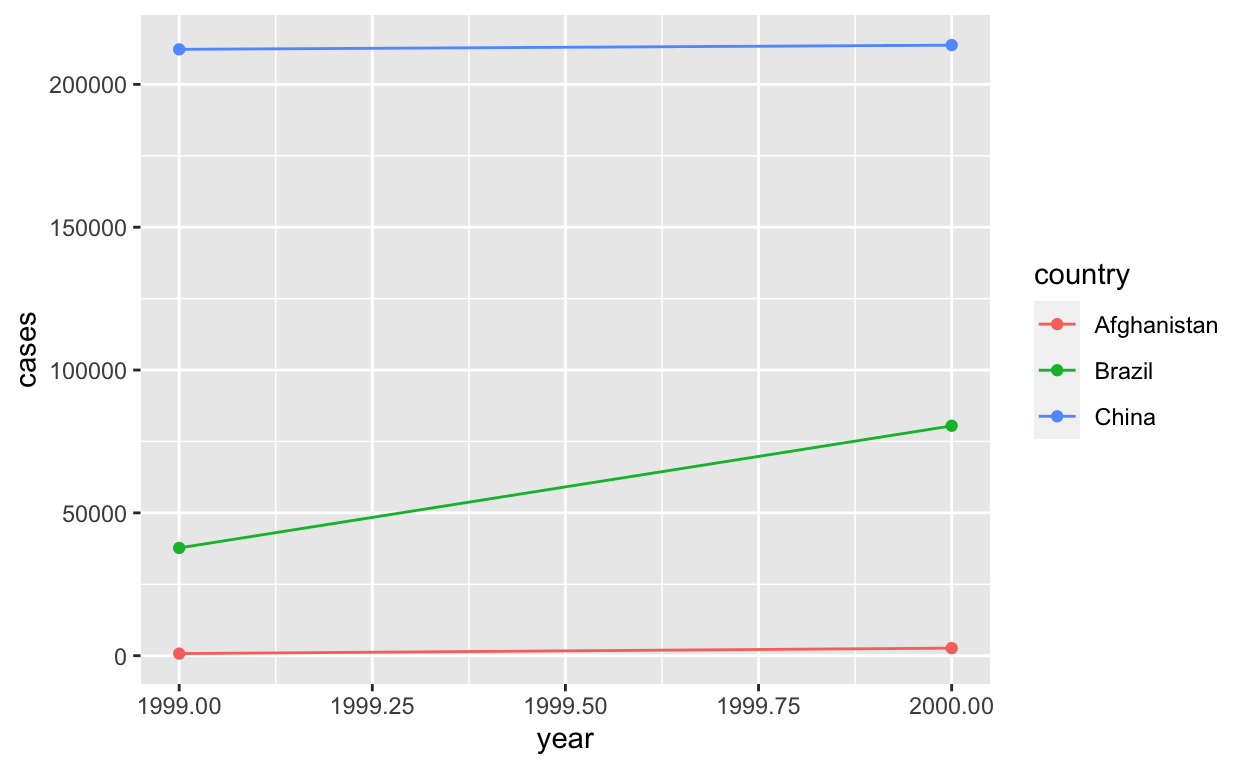
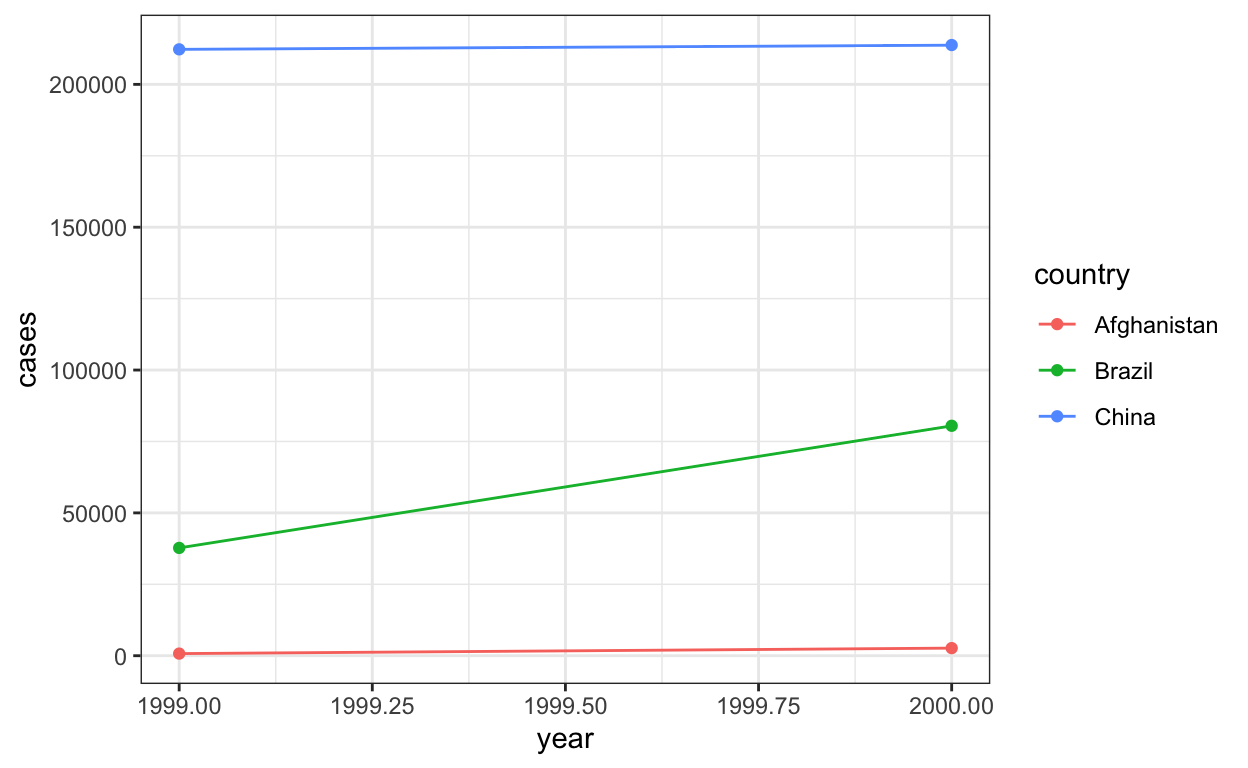
updated link to some readings

diff --git a/docs/posts/2021-01-27-week4-2/index.html b/docs/posts/2021-01-27-week4-2/index.html
@@ -2253,6 +2253,7 @@ d-article ul > li { /*to add back in space between bullet items that I took away
 <pre><code><span class='kw'><a href='https://rdrr.io/r/base/library.html'>library</a></span><span class='op'>(</span><span class='st'><a href='https://dplyr.tidyverse.org'>"dplyr"</a></span><span class='op'>)</span>
 <span class='kw'><a href='https://rdrr.io/r/base/library.html'>library</a></span><span class='op'>(</span><span class='st'><a href='https://tidyr.tidyverse.org'>"tidyr"</a></span><span class='op'>)</span>
 <span class='kw'><a href='https://rdrr.io/r/base/library.html'>library</a></span><span class='op'>(</span><span class='st'><a href='https://ggplot2.tidyverse.org'>"ggplot2"</a></span><span class='op'>)</span>
+<span class='fu'><a href='https://ggplot2.tidyverse.org/reference/theme_get.html'>theme_set</a></span><span class='op'>(</span><span class='fu'><a href='https://ggplot2.tidyverse.org/reference/ggtheme.html'>theme_bw</a></span><span class='op'>(</span><span class='op'>)</span><span class='op'>)</span>
 </code></pre>
 </div>
 </div>

diff --git a/docs/posts/2021-01-27-week4-1/index.html b/docs/posts/2021-01-27-week4-1/index.html
@@ -2252,6 +2252,7 @@ d-article ul > li { /*to add back in space between bullet items that I took away
 <div class="sourceCode">
 <pre><code><span class='kw'><a href='https://rdrr.io/r/base/library.html'>library</a></span><span class='op'>(</span><span class='st'><a href='https://tidyr.tidyverse.org'>"tidyr"</a></span><span class='op'>)</span>
 <span class='kw'><a href='https://rdrr.io/r/base/library.html'>library</a></span><span class='op'>(</span><span class='st'><a href='https://ggplot2.tidyverse.org'>"ggplot2"</a></span><span class='op'>)</span>
+<span class='fu'><a href='https://ggplot2.tidyverse.org/reference/theme_get.html'>theme_set</a></span><span class='op'>(</span><span class='fu'><a href='https://ggplot2.tidyverse.org/reference/ggtheme.html'>theme_bw</a></span><span class='op'>(</span><span class='op'>)</span><span class='op'>)</span>
 </code></pre>
 </div>
 </div>

diff --git a/docs/posts/2021-01-27-week4-3/index.html b/docs/posts/2021-01-27-week4-3/index.html
@@ -2252,7 +2252,6 @@ d-article ul > li { /*to add back in space between bullet items that I took away
 <div class="sourceCode">
 <pre><code><span class='kw'><a href='https://rdrr.io/r/base/library.html'>library</a></span><span class='op'>(</span><span class='st'><a href='https://tidyr.tidyverse.org'>"tidyr"</a></span><span class='op'>)</span>
 <span class='kw'><a href='https://rdrr.io/r/base/library.html'>library</a></span><span class='op'>(</span><span class='st'><a href='https://dplyr.tidyverse.org'>"dplyr"</a></span><span class='op'>)</span>
-<span class='kw'><a href='https://rdrr.io/r/base/library.html'>library</a></span><span class='op'>(</span><span class='st'><a href='https://ggplot2.tidyverse.org'>"ggplot2"</a></span><span class='op'>)</span>
 </code></pre>
 </div>
 </div>
